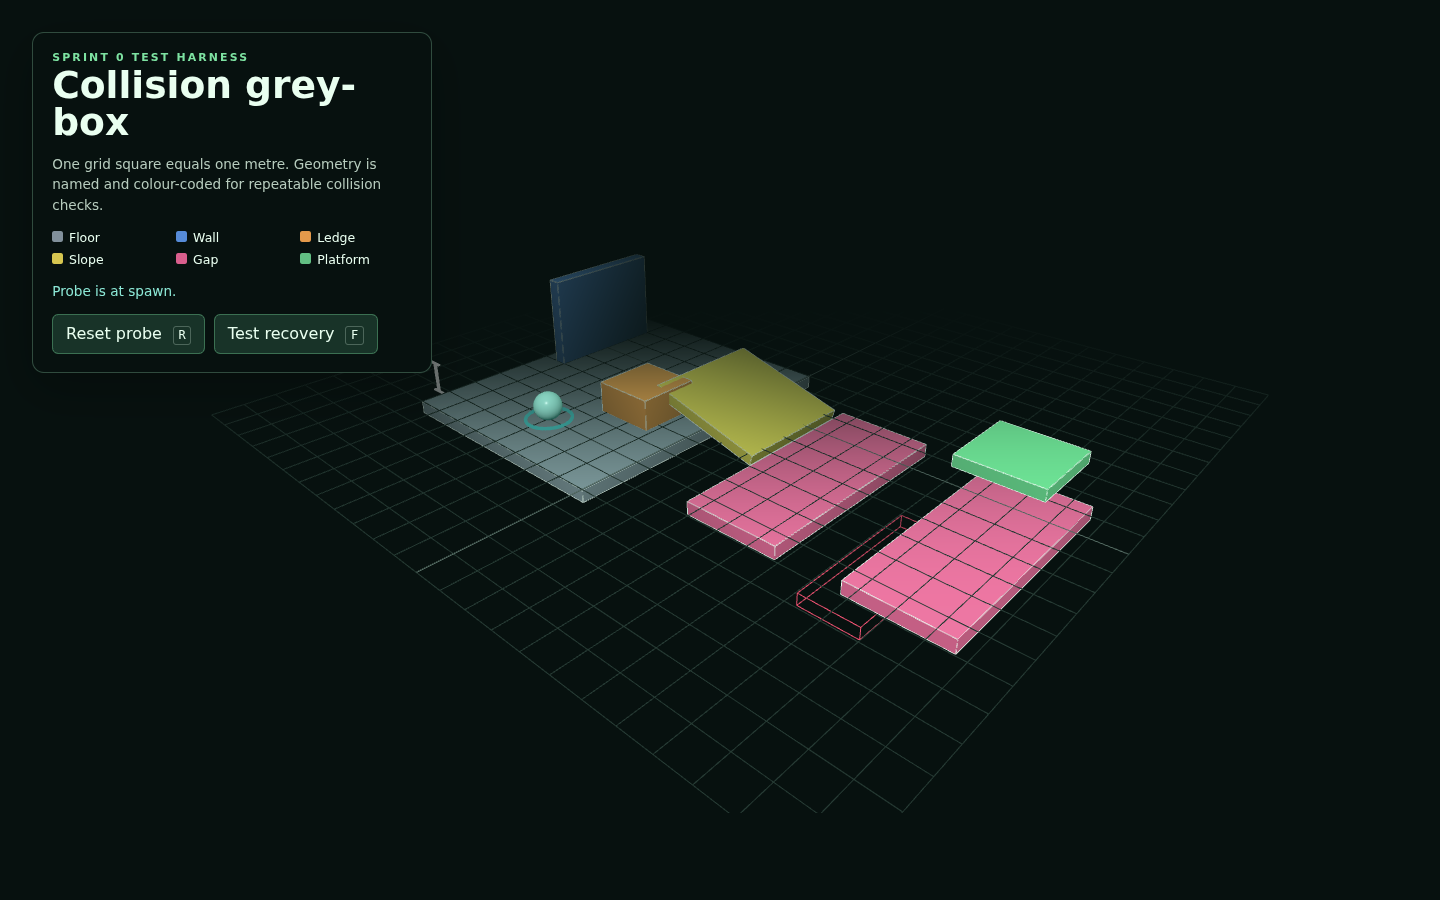
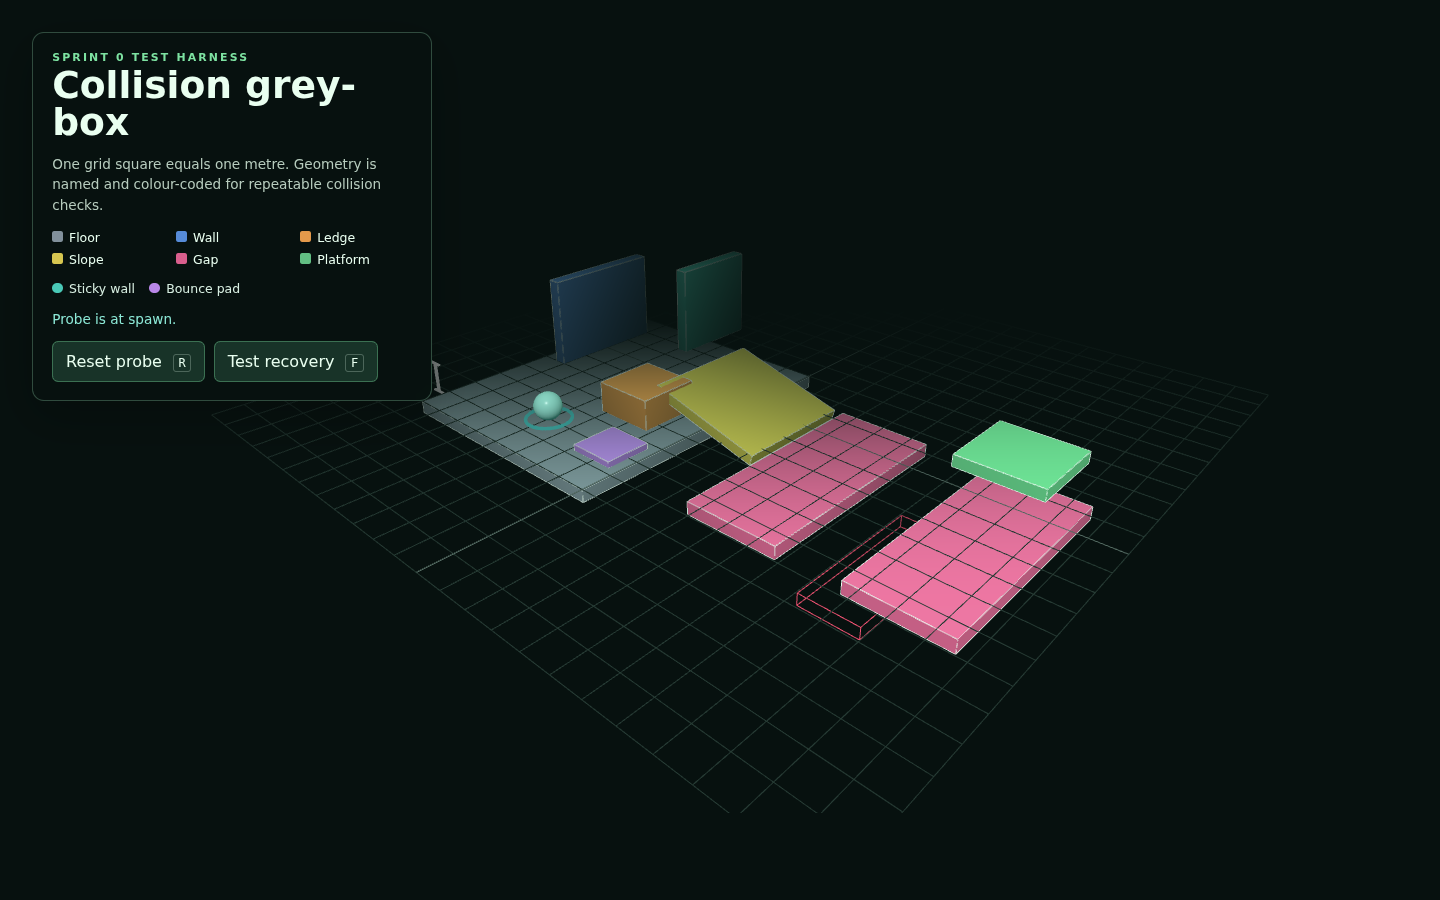
[feat] tag sticky and bouncy test surfaces

Changed region(s): [[0.0312, 0.3111, 0.2812, 0.4356], [0.4688, 0.28, 0.5312, 0.3733], [0.4062, 0.4667, 0.4688, 0.5289]]

diff --git a/src/levels/GreyboxCollisionScene.ts b/src/levels/GreyboxCollisionScene.ts
@@ -8,12 +8,15 @@ type CollisionCase =
   | 'gap'
   | 'platform';
 
+type SurfaceTag = 'default' | 'sticky' | 'bouncy';
+
 interface TestBox {
   name: string;
   testCase: CollisionCase;
   size: readonly [number, number, number];
   position: readonly [number, number, number];
   material: THREE.Material;
+  surfaceTag: SurfaceTag;
   rotationZ?: number;
 }
 
@@ -42,7 +45,9 @@ export class GreyboxCollisionScene {
       slope: this.createMaterial(0xd6c650),
       gap: this.createMaterial(0xd95f8d),
       platform: this.createMaterial(0x62bf83),
-    } satisfies Record<CollisionCase, THREE.MeshStandardMaterial>;
+      sticky: this.createMaterial(0x49c9b7),
+      bouncy: this.createMaterial(0xb987e8),
+    } satisfies Record<CollisionCase | 'sticky' | 'bouncy', THREE.MeshStandardMaterial>;
 
     const boxes: TestBox[] = [
       {
@@ -51,13 +56,23 @@ export class GreyboxCollisionScene {
         size: [8, 0.4, 10],
         position: [-4, -0.2, 2],
         material: materials.floor,
+        surfaceTag: 'default',
       },
       {
-        name: 'case-wall-3m-high',
+        name: 'case-wall-default-3m-high',
         testCase: 'wall',
         size: [0.4, 3, 4],
         position: [-7.2, 1.5, 0],
         material: materials.wall,
+        surfaceTag: 'default',
+      },
+      {
+        name: 'case-wall-sticky-3m-high',
+        testCase: 'wall',
+        size: [0.4, 3, 3],
+        position: [-4.8, 1.5, -3.2],
+        material: materials.sticky,
+        surfaceTag: 'sticky',
       },
       {
         name: 'case-ledge-1m-high',
@@ -65,6 +80,7 @@ export class GreyboxCollisionScene {
         size: [2, 1, 2],
         position: [-2.2, 0.5, 2.5],
         material: materials.ledge,
+        surfaceTag: 'default',
       },
       {
         name: 'case-slope-15-degrees',
@@ -73,6 +89,7 @@ export class GreyboxCollisionScene {
         position: [0.2, 0.35, 0.5],
         rotationZ: -THREE.MathUtils.degToRad(15),
         material: materials.slope,
+        surfaceTag: 'default',
       },
       {
         name: 'case-gap-near-edge',
@@ -80,6 +97,7 @@ export class GreyboxCollisionScene {
         size: [3, 0.4, 7],
         position: [4, -0.2, 2],
         material: materials.gap,
+        surfaceTag: 'default',
       },
       {
         name: 'case-gap-far-edge',
@@ -87,6 +105,7 @@ export class GreyboxCollisionScene {
         size: [3, 0.4, 7],
         position: [9, -0.2, 2],
         material: materials.gap,
+        surfaceTag: 'default',
       },
       {
         name: 'case-platform-1.5m-high',
@@ -94,6 +113,15 @@ export class GreyboxCollisionScene {
         size: [2.5, 0.35, 2.5],
         position: [9, 1.5, 0],
         material: materials.platform,
+        surfaceTag: 'default',
+      },
+      {
+        name: 'case-bounce-pad-0.2m-high',
+        testCase: 'platform',
+        size: [1.5, 0.2, 1.5],
+        position: [-1.1, 0.1, 5],
+        material: materials.bouncy,
+        surfaceTag: 'bouncy',
       },
     ];
 
@@ -178,6 +206,7 @@ export class GreyboxCollisionScene {
     mesh.rotation.z = testBox.rotationZ ?? 0;
     mesh.userData.collisionCase = testBox.testCase;
     mesh.userData.sizeMetres = [...testBox.size];
+    mesh.userData.surfaceTag = testBox.surfaceTag;
     this.root.add(mesh);
 
     const outline = new THREE.LineSegments(

diff --git a/src/style.css b/src/style.css
@@ -94,6 +94,31 @@ canvas {
   color: #8ce8d6;
 }
 
+.surface-key {
+  display: flex;
+  gap: 0.9rem;
+  margin: 0.8rem 0;
+  color: #d7eee1;
+  font-size: 0.78rem;
+}
+
+.surface-key span::before {
+  display: inline-block;
+  width: 0.65rem;
+  height: 0.65rem;
+  margin-right: 0.4rem;
+  border-radius: 50%;
+  content: '';
+}
+
+.sticky-key::before {
+  background: #49c9b7;
+}
+
+.bouncy-key::before {
+  background: #b987e8;
+}
+
 .controls {
   display: flex;
   flex-wrap: wrap;

diff --git a/src/debug/GreyboxTestPanel.ts b/src/debug/GreyboxTestPanel.ts
@@ -26,6 +26,7 @@ export class GreyboxTestPanel {
         <li style="--case-colour: #d95f8d">Gap</li>
         <li style="--case-colour: #62bf83">Platform</li>
       </ul>
+      <p class="surface-key"><span class="sticky-key">Sticky wall</span><span class="bouncy-key">Bounce pad</span></p>
       <p class="probe-status" role="status">Probe is at spawn.</p>
       <div class="controls">
         <button type="button" data-action="reset">Reset probe <kbd>R</kbd></button>

diff --git a/docs/greybox-collision-scene.md b/docs/greybox-collision-scene.md
@@ -12,15 +12,33 @@ metre-based dimensions in `userData.sizeMetres`.
 | Colour | Case | Measurement and purpose |
 | --- | --- | --- |
 | Grey | Floor | 8 m × 10 m baseline for ground contact |
-| Blue | Wall | 3 m high vertical contact and adhesion candidate |
+| Blue | Default wall | 3 m high vertical contact that must not permit adhesion |
+| Teal | Sticky wall | 3 m high vertical contact eligible for adhesion |
 | Orange | Ledge | 1 m high step and corner-resolution case |
 | Yellow | Slope | 15° incline for grounding and slide tests |
 | Pink | Gap | 2 m separation between two floor sections |
 | Green | Platform | 1.5 m-high isolated platform contact |
+| Purple | Bounce pad | 0.2 m-high bouncy platform surface |
 
 The ground grid uses one-metre cells. A one-metre white scale bar stands beside
 the cyan spawn marker. The temporary player probe is a sphere with a 0.45 m
 radius, matching the planned simple gameplay collider.
+
+## Surface metadata
+
+Every collision mesh exposes two independent semantic fields:
+
+- `userData.collisionCase` describes the shape's test category, such as `wall`
+  or `platform`.
+- `userData.surfaceTag` describes its gameplay behaviour: `default`, `sticky`,
+  or `bouncy` in this scene.
+
+This allows the normal and sticky walls to remain the same `wall` collision
+case while only the latter is accepted by future adhesion logic. The bounce pad
+remains a `platform` collision case while carrying the `bouncy` tag. Future
+authoring may use the same field for the planned `soluble` and `conductive`
+tags; collision code must use the explicit tag rather than material colour or
+mesh name.
 
 ## Spawn and recovery
 
@@ -39,6 +57,8 @@ after detecting a real fall.
   metre in diameter.
 - Give collision meshes stable, descriptive names and store semantic tags in
   `userData` rather than inferring behaviour from material colour.
+- Keep the collision-case and surface-behaviour tags separate: a wall can be
+  `default` or `sticky`, and a platform can be `default` or `bouncy`.
 - Keep visual outlines separate from collision meshes. Registration code should
   only consume objects carrying `userData.collisionCase`.
 - Mark known-safe spawn positions explicitly and keep recovery volumes below

diff --git a/docs/evidence/issue-7.md b/docs/evidence/issue-7.md
@@ -20,9 +20,9 @@ paths.
 ## Browser checks
 
 Chromium loaded the production build at 1440 × 900. The overview showed the
-floor, wall, ledge, slope, gap, and platform as distinct colour-coded cases,
-alongside the one-metre grid, scale bar, cyan spawn marker, temporary probe, and
-red recovery volume.
+floor, default wall, sticky wall, ledge, slope, gap, platform, and bounce pad as
+distinct colour-coded cases, alongside the one-metre grid, scale bar, cyan spawn
+marker, temporary probe, and red recovery volume.
 
 The recovery control produced the expected sequence:
 
